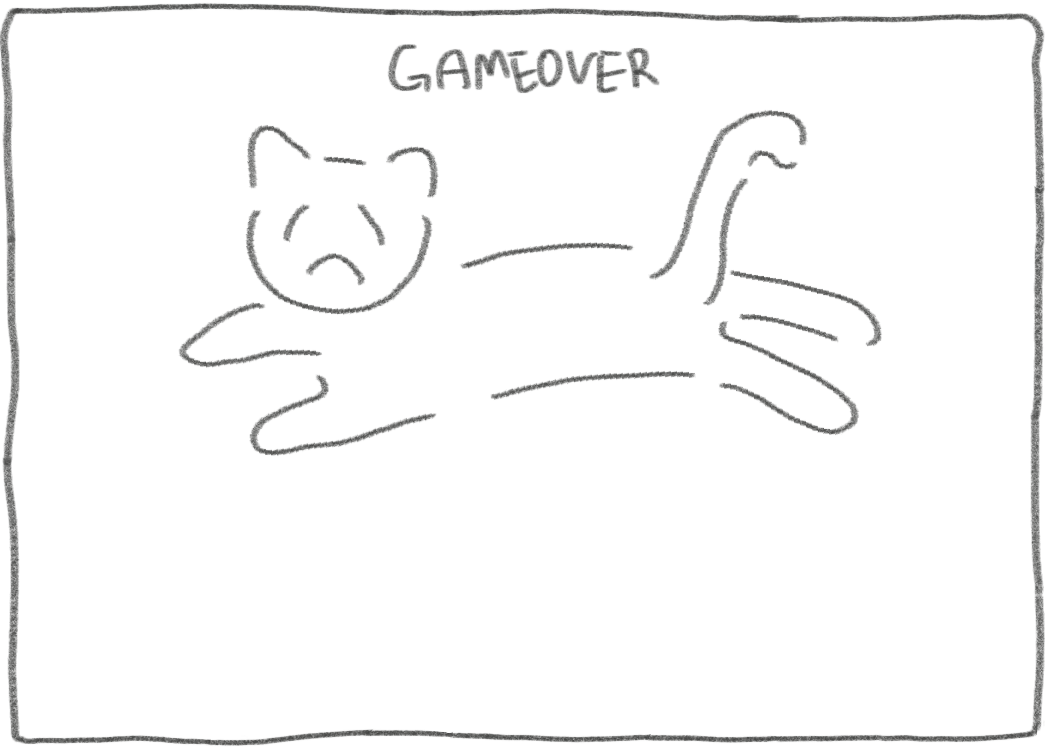
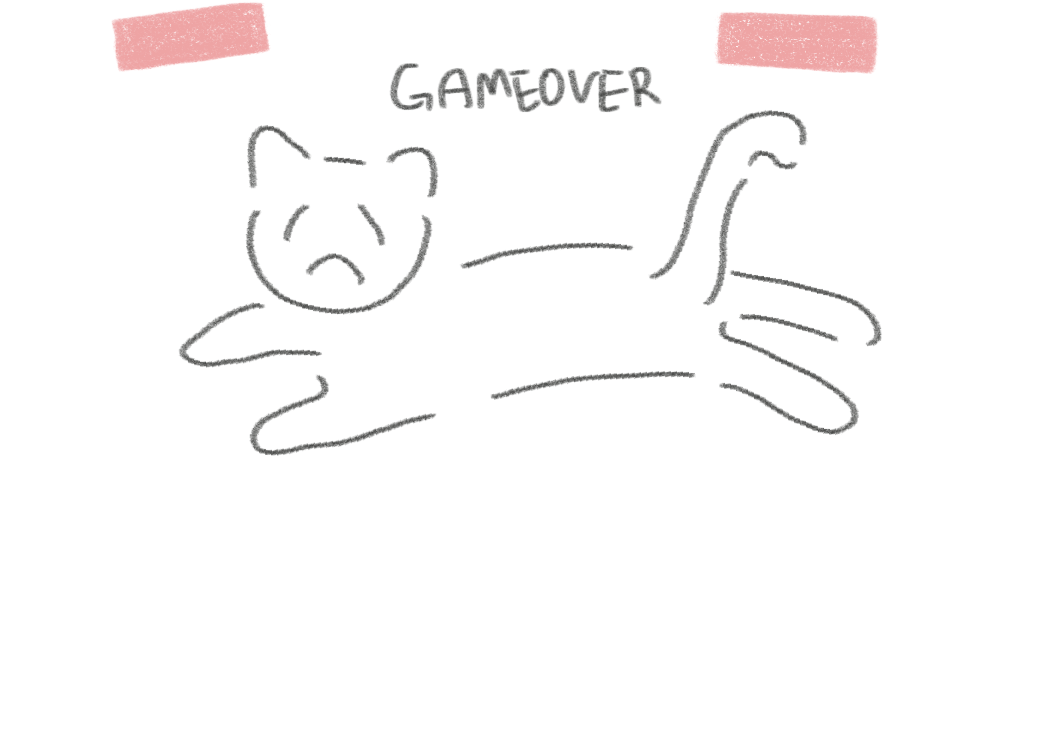
feat: make gameoverModal

Changed region(s): [[0.0, 0.0, 1.0, 1.0], [0.3657, 0.0613, 0.64, 0.1533]]

diff --git a/src/components/snakegame/snakeGame.tsx b/src/components/snakegame/snakeGame.tsx
@@ -10,6 +10,7 @@ import itemImage from '../../assets/images/SnakeGame/item.png';
 import ShowScore from './ShowScore';
 import KeyPressHandle from './KeyPressHandle';
 import PauseModal from '../modal/pauseModal';
+import GameoverModal from '../modal/gameoverModal';
 import ReadyModal from '../modal/ReadyModal'
 import { SnakeGameType } from '../../types/SnakeGameType';
 import React from 'react';
@@ -30,6 +31,7 @@ const Game = () => {
   const [pause, setPause] = useState(false);
   const [item, setItem] = useState({ x: 0, y: 0, visible: false });
   const [score, setScore] = useState<number>(0);
+  const [showOverlay, setShowOverlay] = useState(false);
 
   useEffect(() => {
     const intervalId = setInterval(() => {
@@ -81,12 +83,14 @@ const Game = () => {
     }
   
     if (head.x < 0 || head.x * CHARACTER_SIZE >= GAME_WIDTH || head.y < 0 || head.y * CHARACTER_SIZE >= GAME_HEIGHT) {
+      setShowOverlay(true);
       setGameOver(true);
       return;
     }
   
     const newSnake = [head, ...snake.slice(0, -1)];
     if (newSnake.length > 1 && newSnake.slice(1).some(block => block.x === head.x && block.y === head.y)) {
+      setShowOverlay(true);
       setGameOver(true);
       return;
     }
@@ -116,11 +120,13 @@ const Game = () => {
       setDirection(newDirection);
       setShowModal(true);
       setPause(true);
+      setShowOverlay(true);
     } else if (newDirection === 'close'){
       setDirection(tempDirec);
       setShowModal(false);
       setReady(true);
       setPause(false);
+      setShowOverlay(false);
     } else if (newDirection && !pause) {
       setDirection(newDirection);
       setTempDirec(newDirection);
@@ -135,12 +141,14 @@ const Game = () => {
     setPause(false);
     setItem({ x: 0, y: 0, visible: false });
     setScore(0);
+    setShowOverlay(false);
     setReady(true);
   };
 
   return (
     <Wrapper ref={inputRef} tabIndex={0} onKeyDown={handleKeyDown} >
       <Background />
+      {showOverlay && <Overlay />}
       <GameFrame />
       <Canvas>
         {snake.map((block, index) => (
@@ -149,7 +157,7 @@ const Game = () => {
         {item.visible && <SnakeBlock src={itemImage} style={{ left: item.x * CHARACTER_SIZE, top: item.y * CHARACTER_SIZE }} />}
         <ShowScore snake={snake} score={score} restProps={undefined} />
       </Canvas>
-      {gameOver && <GameOver>Game Over!</GameOver>}
+      {gameOver && <GameoverModal restart={restartGame} />}
       {showModal && <PauseModal restart={restartGame} />}
       {ready && <ReadyModal ready={ready} />}
     </Wrapper>
@@ -185,9 +193,12 @@ const SnakeBlock = styled.img`
   height: ${CHARACTER_SIZE}px;
 `;
 
-const GameOver = styled.div`
+const Overlay = styled.div`
   position: absolute;
-  font-size: 2rem;
-  color: red;
-  text-align: center;
+  top: 0;
+  left: 0;
+  width: 100%;
+  height: 100%;
+  background-color: rgba(0, 0, 0, 0.3); /* Adjust the opacity as needed */
+  z-index: 998; /* Make sure the overlay appears on top of other elements */
 `;

diff --git a/src/components/modal/gameoverModal.tsx b/src/components/modal/gameoverModal.tsx
@@ -1,0 +1,80 @@
+import React from 'react';
+import { useNavigate } from 'react-router-dom';
+import styled from "styled-components";
+import gameoverImg from '../../assets/images/Modal/gameover/gameover.png';
+import restartImg from '../../assets/images/Modal/pause/restart.png';
+import menuImg from '../../assets/images/Modal/pause/menu.png';
+import { PauseModalType } from '../../types/PauseModalType';
+
+function GameoverModal({ restart }: PauseModalType ) {
+  const navigate = useNavigate();
+
+  const handleClick1 = () => {
+    navigate('/index');
+  };
+
+  const handleClick2 = () => {
+    restart();
+  };
+
+  return (
+    <Wrapper>
+      <PauseImgTag src={gameoverImg} />
+      <ButtonWrapper>
+        <Button onClick={handleClick2} >
+          <ButtonImg src={restartImg} />
+        </Button>
+        <Button onClick={handleClick1} >
+          <ButtonImg src={menuImg} />
+        </Button>
+      </ButtonWrapper>
+    </Wrapper>
+  );
+}
+
+export default GameoverModal;
+
+const Wrapper = styled.div`
+  position: fixed;
+  top: 50%;
+  left: 50%;
+  transform: translate(-50%, -50%);
+  width: 350px;
+  height: 250px;
+  border: none;
+  padding: 20px;
+  z-index: 999;
+  display: flex;
+  align-items: center;
+  flex-direction: column;
+`;
+
+const PauseImgTag = styled.img`
+  position: absolute;
+  width: 350px;
+  height: 250px;
+  object-fit: cover;
+`
+const ButtonWrapper = styled.div`
+  position: absolute;
+  display: flex;
+  flex-direction: row;
+  justify-content: center;
+  top: 90px;
+  width: 100%;
+  height: 100%;
+`;
+
+const Button = styled.button`
+  cursor: pointer;
+  background-color: transparent;
+  border: none;
+  z-index: 1;
+  padding-right : 30px;
+  padding-left : 30px;
+`;
+
+const ButtonImg = styled.img`
+  width: 90px;
+  height: 36px;
+`;
